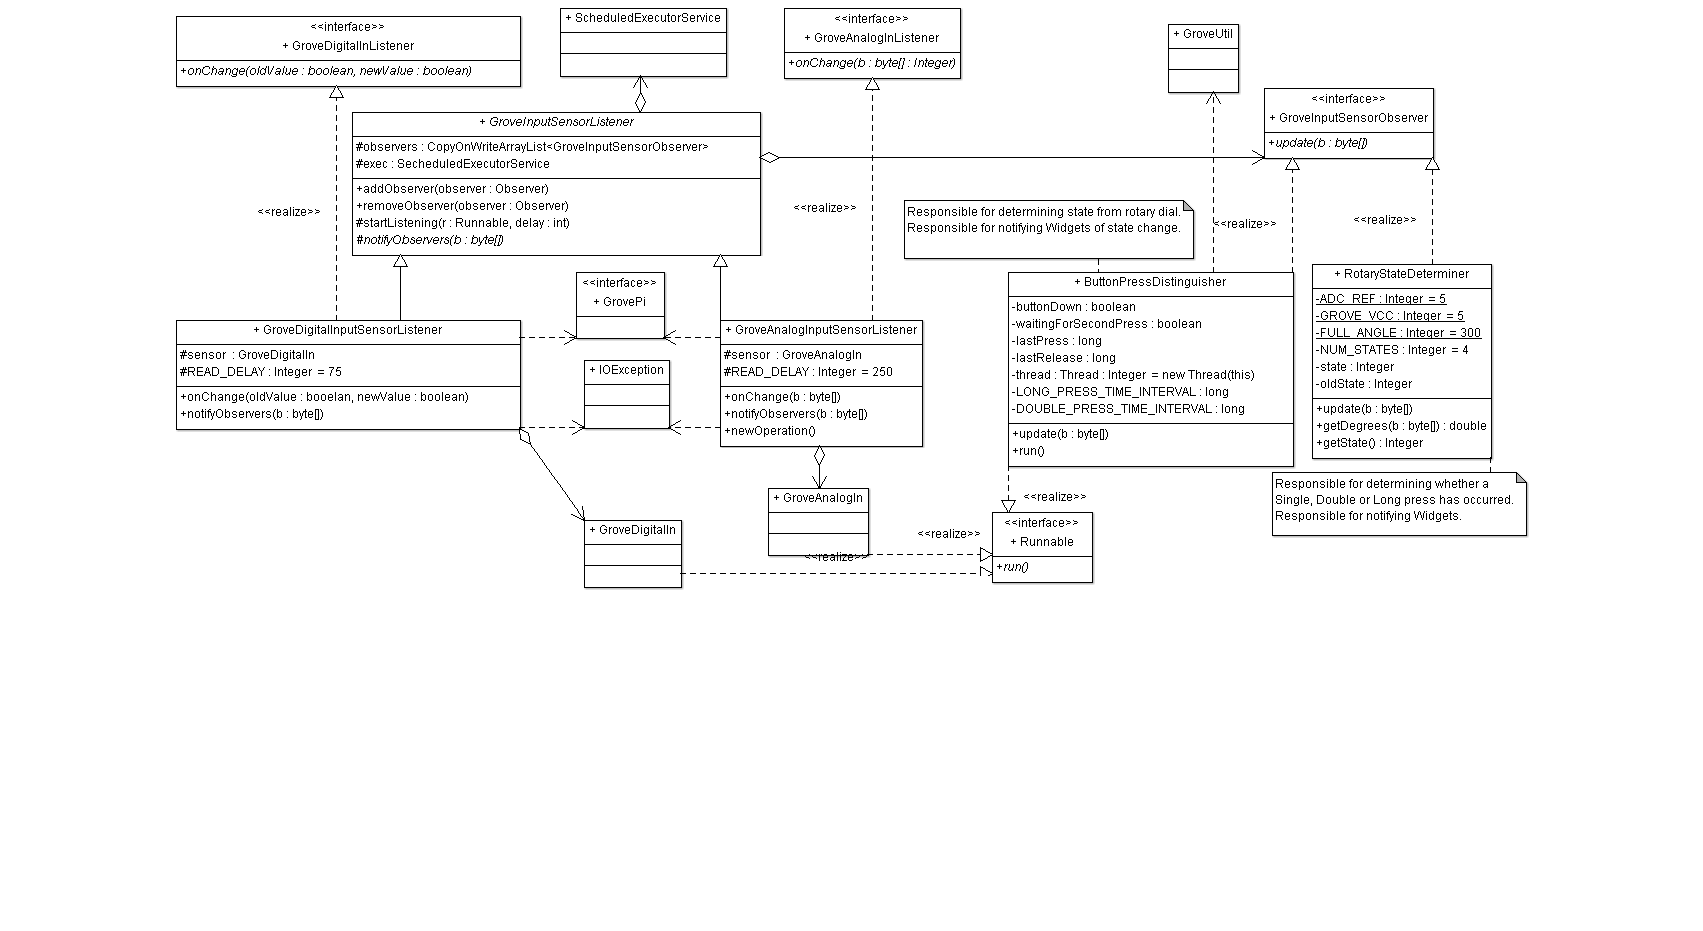
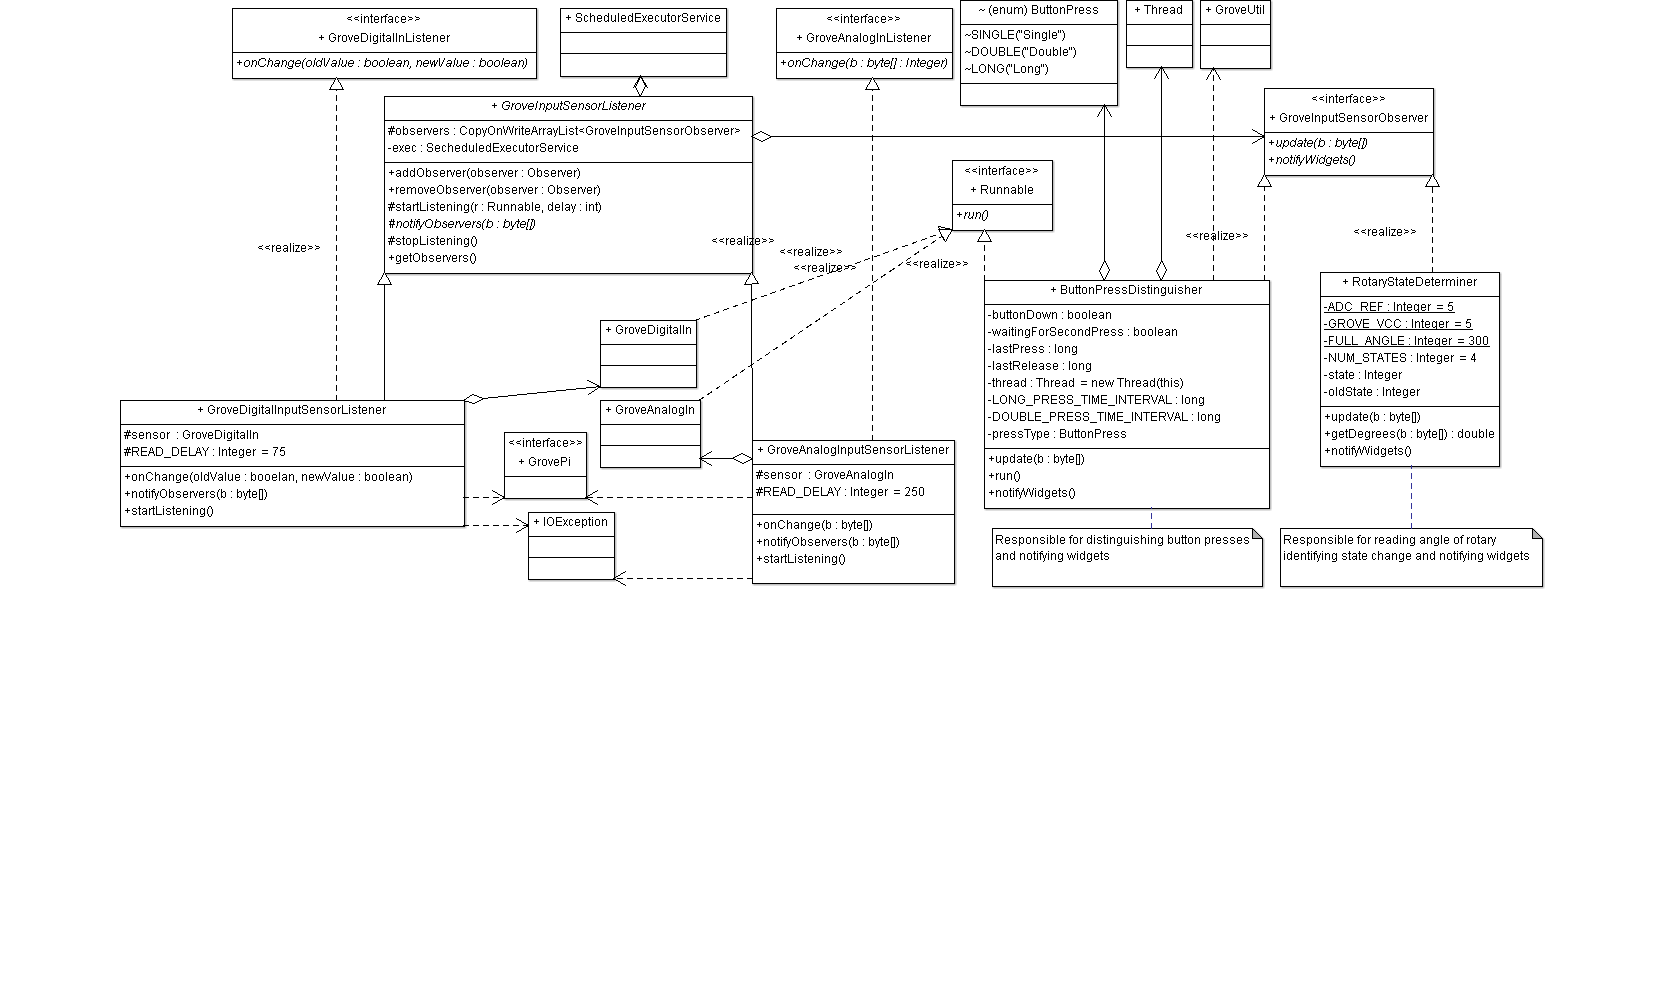
Merge from InputSensors Branch

diff --git a/MirrorMirrorOnTheWall/src/grovepisensors/ButtonPressDistinguisher.java b/MirrorMirrorOnTheWall/src/grovepisensors/ButtonPressDistinguisher.java
@@ -33,7 +33,7 @@ public class ButtonPressDistinguisher implements GroveInputSensorObserver, Runna
      */
     private Thread thread = new Thread(this);
     /**
-     * The number of milliseconds the button must be held down for a Long Press
+     * The number of milliseconds the button must be held down for a Long Press.
      */
     private final int LONG_PRESS_TIME_INTERVAL = 1000;
     /**
@@ -41,9 +41,9 @@ public class ButtonPressDistinguisher implements GroveInputSensorObserver, Runna
      */
     private final int DOUBLE_PRESS_TIME_INTERVAL = 1000;
     /**
-     * Holds String description of last press type. One of: 'SINGLE', 'DOUBLE', 'LONG'
+     * Holds what last type of press was.
      */
-    private String pressType;
+    private ButtonPress pressType;
     /**
      * Updates the recorded times of button presses and releases. If a Long Press or a Double Press
      * occurs, this method notifies the appropriate object.  If a Single Press is detected, this method
@@ -62,13 +62,13 @@ public class ButtonPressDistinguisher implements GroveInputSensorObserver, Runna
         } else{                             //button was just released
             lastRelease = timeOfAction;           
             if (lastRelease - lastPress > LONG_PRESS_TIME_INTERVAL){
-                pressType = "LONG";
-                System.out.println("Long Press");   //or call StateContext's LongPress()
+                pressType = ButtonPress.LONG;
+                notifyWidgets();
             }
             else{
                 if (thread.isAlive()){ //if thread still waiting, it's a double press        
-                    pressType = "DOUBLE";
-                    System.out.println("Double Press");
+                    pressType = ButtonPress.DOUBLE;
+                    notifyWidgets();
                     waitingForSecondPress = false;
                 }else{ //this press is not second press of a double press, must wait
                     waitingForSecondPress = true;
@@ -79,7 +79,7 @@ public class ButtonPressDistinguisher implements GroveInputSensorObserver, Runna
         }   
     }        
     /**
-     * Invoked by this instance's update method when it detects a Single Press.  If the Single Press is not followed by another within
+     * Invoked by update method of this class when it detects a Single Press.  If the Single Press is not followed by another within
      * the predetermined period of time.  The run method determines that a Single Press has occurred and notifies the appropriate objec
      * @Override run in interface Runnable
      */
@@ -87,19 +87,19 @@ public class ButtonPressDistinguisher implements GroveInputSensorObserver, Runna
         try{
             Thread.sleep(DOUBLE_PRESS_TIME_INTERVAL);  //after "enough" time has elapsed,
             if(waitingForSecondPress){              //and still waiting for second press, then it's a single press
-                pressType = "SINGLE";
-                System.out.println("Single Press");  //or call State Context's singlePress()
+                pressType = ButtonPress.SINGLE;
+                notifyWidgets();
                 waitingForSecondPress = false;
             }                
         }catch (InterruptedException e){
             e.printStackTrace();
         }
     }
+    
     /**
-     * Gets the String representation of the last press
-     * @return One of: 'SINGLE', 'DOUBLE', 'LONG'
+     * Responsible for notifying active widget of press type that has just occurred.
      */
-    public String getLastPressType(){
-        return pressType;
+    public void notifyWidgets(){
+        System.out.println(pressType + " press");
     }
 }

diff --git a/MirrorMirrorOnTheWall/src/grovepisensors/RotaryStateDeterminer.java b/MirrorMirrorOnTheWall/src/grovepisensors/RotaryStateDeterminer.java
@@ -27,19 +27,29 @@ public class RotaryStateDeterminer implements GroveInputSensorObserver
     /**
      * The number of different states 
      */
-    private int NUM_STATES = 4;
+    private final int NUM_STATES;
     /**
      * The range in degrees of an interval that is associated with a distinct state.
      */
-    private double DEGREE_RANGE = FULL_ANGLE / NUM_STATES;
+    private final double DEGREE_RANGE;
     /**
      * The current state.
      */
-    private int state;
+    private int currentState;
     /**
      * The previous state.
      */
     private int oldState;
+    
+    /**
+     * Instantiates a RotaryStateDeterminer with the provided number of states
+     * @param numberOfStates the number of different states to recognize and distinguish
+     */    
+    public RotaryStateDeterminer(int numberOfStates){
+        NUM_STATES = numberOfStates;
+        DEGREE_RANGE = FULL_ANGLE / NUM_STATES;
+    }
+    
     /**
      * Updates an instance of this class of the current angle of a Grove rotary sensor. If the state has changed,
      * notifies the appropriate object elsewhere.
@@ -50,26 +60,33 @@ public class RotaryStateDeterminer implements GroveInputSensorObserver
      * @See GroveAnalogInputSensorListener
      * @See GroveRotarySensor
      * @See GroveRotaryValue
-     */    
+     */        
     public void update(byte[] b){
         double degrees = getDegrees(b);
-        oldState = state;
+        oldState = currentState;
         for (int i = 0; i < NUM_STATES; i++)
             if (i * DEGREE_RANGE < degrees && degrees < (i+1) * DEGREE_RANGE)
-                 state = i+1;
-        if (oldState != state)
-            System.out.println("State: " + state);
+                 currentState = i+1;
+        if (oldState != currentState)
+            notifyWidgets();
     }
      /**
      * Computes the current angle in degrees of the Grove rotary sensor based on the byte array read from the sensor
      * @param b the byte[] read from the rotary sensor
      * @return the angle of the rotary sensor
      */
-    public double getDegrees(byte[] b){
+    private double getDegrees(byte[] b){
         int[] v = GroveUtil.unsign(b);
         double sensorValue = (v[1]*256) + v[2];
         double voltage = sensorValue * ADC_REF / 1023;
         double degrees = voltage * FULL_ANGLE / GROVE_VCC;
         return degrees;
+    }
+    
+    /**
+     * Responsible for notifying widgets of state change
+     */
+    public void notifyWidgets(){
+        System.out.println("State: " + currentState);
     }
 }

diff --git a/MirrorMirrorOnTheWall/src/grovepisensors/GrovePiSensors.java b/MirrorMirrorOnTheWall/src/grovepisensors/GrovePiSensors.java
@@ -3,34 +3,29 @@ package grovepisensors;
 import com.pi4j.io.i2c.I2CFactory;
 import org.iot.raspberry.grovepi.pi4j.GrovePi4J;
 import java.io.IOException;
+
 /**
- * Short program to show that the sensors are working properly.  Currently, I do not think that 
- * the sensors work properly when looking at both sensors at the same time.
- * If you want to use the button, set 'testingButton = true;' If you want to test the rotary,
- * set 'testingButton = false;'  Ensure that button is connected to port 6 on the GrovePi, and 
- * that the rotary is connected to port 2 on the GrovePi.
+ * Short program to show that the sensors are working properly.
  * @author James Luczynski
  */
 public class GrovePiSensors {
-    /**
-     * Decides which type of sensor will be used. If true, then button. If false, then rotary.
-     */
-    private static boolean testingButton = true;
 
     public static void main(String[] args) throws IOException, I2CFactory.UnsupportedBusNumberException {
         int buttonPin = 6;
         int rotaryPin = 2;
         int bufferLength = 4;
+        int nStates = 4; //number of states for the rotary to detect
         GrovePi4J gp = new GrovePi4J();
         
-        if (testingButton){
-            GroveDigitalInputSensorListener buttonListener = 
-                    new GroveDigitalInputSensorListener(gp, buttonPin);
-            buttonListener.addObserver(new ButtonPressDistinguisher());
-        }else{ //testing Rotary
-            GroveAnalogInputSensorListener rotaryListener = 
-                    new GroveAnalogInputSensorListener(gp, rotaryPin, bufferLength);
-            rotaryListener.addObserver(new RotaryStateDeterminer());    
-        }
+        GroveDigitalInputSensorListener buttonListener = 
+                new GroveDigitalInputSensorListener(gp, buttonPin);
+        GroveAnalogInputSensorListener rotaryListener = 
+                new GroveAnalogInputSensorListener(gp, rotaryPin, bufferLength);
+        
+        buttonListener.addObserver(new ButtonPressDistinguisher());
+        rotaryListener.addObserver(new RotaryStateDeterminer(nStates));   
+        
+        buttonListener.startListening();
+        rotaryListener.startListening();
     }    
 }

diff --git a/MirrorMirrorOnTheWall/src/grovepisensors/GroveInputSensorListener.java b/MirrorMirrorOnTheWall/src/grovepisensors/GroveInputSensorListener.java
@@ -15,11 +15,11 @@ public abstract class GroveInputSensorListener {
     /**
      * A list of all observers that this listener notifies.
      */ 
-    protected CopyOnWriteArrayList<GroveInputSensorObserver> observers = new CopyOnWriteArrayList<GroveInputSensorObserver>();
+    protected CopyOnWriteArrayList<GroveInputSensorObserver> observers = new CopyOnWriteArrayList<>();
     /**
      * Responsible for making the intermittent calls to read the input sensor
      */
-    protected final ScheduledExecutorService exec = Executors.newSingleThreadScheduledExecutor();
+    private ScheduledExecutorService exec; 
     /**
      * Adds the observer to the list of observers.
      * @param observer the observer to be added
@@ -41,12 +41,28 @@ public abstract class GroveInputSensorListener {
      * @param delay the number of milliseconds between consecutive reads or calls of r's run() method
      */
     protected void startListening(Runnable r, int delay){
+        exec = Executors.newSingleThreadScheduledExecutor();
         exec.scheduleAtFixedRate(r, 0, delay, TimeUnit.MILLISECONDS);
     }
     
+    /**
+     * Stops the readings of the input sensor's values
+     */
+    protected void stopListening(){
+        if (!exec.isShutdown())
+            exec.shutdown();
+    }
     /**
      * Implementation to be provided by subclasses. Notifies all observers of the values recently read from the input sensor.
      * @param b the byte array that was read from the sensor.
      */
     protected abstract void notifyObservers(byte[] b);
+    
+    /**
+     * Gets the list of Observers that this Listener is responsible for notifying
+     * @return the list of observers
+     */
+    public CopyOnWriteArrayList<GroveInputSensorObserver> getObservers(){
+        return observers;
+    }
 }

diff --git a/MirrorMirrorOnTheWall/src/grovepisensors/GroveAnalogInputSensorListener.java b/MirrorMirrorOnTheWall/src/grovepisensors/GroveAnalogInputSensorListener.java
@@ -31,12 +31,19 @@ public class GroveAnalogInputSensorListener extends GroveInputSensorListener imp
     public GroveAnalogInputSensorListener(GrovePi grovePi, int pin, int bufferSize) throws IOException{
         sensor = new GroveAnalogIn(grovePi, pin, bufferSize);
         sensor.setListener(this);
-        startListening(sensor, READ_DELAY);
+    }
+    
+    /**
+     * Initiates the readings of the input sensor's values
+     */
+    public void startListening(){
+        this.startListening(sensor, READ_DELAY);
     }
     
     /**
      * Notifies all observers of the new values read from the input sensor
      * @param b the byte array read from the sensor.
+     * @Override notifyObservers in GroveInputSensorListener
      */
     protected void notifyObservers(byte[] b){
         for (GroveInputSensorObserver o : observers){
@@ -47,6 +54,7 @@ public class GroveAnalogInputSensorListener extends GroveInputSensorListener imp
     /**
      * Tells an instance of this class to notify its observers of the new values read from the input sensor.
      * @param newValue The byte array read from the input sensor.
+     * @Override onChange in GroveAnalogInListener
      */
     public void onChange(byte[] newValue){
         notifyObservers(newValue);

diff --git a/MirrorMirrorOnTheWall/src/grovepisensors/GroveDigitalInputSensorListener.java b/MirrorMirrorOnTheWall/src/grovepisensors/GroveDigitalInputSensorListener.java
@@ -30,7 +30,13 @@ public class GroveDigitalInputSensorListener extends GroveInputSensorListener im
     public GroveDigitalInputSensorListener(GrovePi grovePi, int pin) throws IOException{
         sensor = new GroveDigitalIn(grovePi, pin);
         sensor.setListener(this);
-        startListening(sensor, READ_DELAY);
+    }
+    
+    /**
+     * Initiates the readings of the input sensor's values
+     */
+    public void startListening(){
+        this.startListening(sensor, READ_DELAY);
     }
     
      /**
@@ -48,6 +54,7 @@ public class GroveDigitalInputSensorListener extends GroveInputSensorListener im
      * Tells an instance of this class to notify its observers of the new values read from the input sensor.
      * @param newValue The new state of the digital sensor.
      * @param oldValue The old state of the digital sensor.
+     * @Override onChange in GroveDigitalInListener
      */
     public void onChange(boolean oldValue, boolean newValue){
         notifyObservers(null);

diff --git a/MirrorMirrorOnTheWall/src/grovepisensors/ButtonPress.java b/MirrorMirrorOnTheWall/src/grovepisensors/ButtonPress.java
@@ -1,0 +1,25 @@
+package grovepisensors;
+
+/**
+ * Enumeration for the different types of button presses
+ * @author James Luczynski
+ */
+enum ButtonPress {
+    SINGLE("Single"), 
+    DOUBLE("Double"), 
+    LONG("Long");
+    
+    private final String pressType;
+    
+    private ButtonPress(String pressType){
+        this.pressType = pressType;
+    }
+    
+    /**
+     * @Override in class Enum
+     * @return String description of the button press type
+     */
+    public String toString(){
+        return pressType;
+    }
+}

diff --git a/MirrorMirrorOnTheWall/src/grovepisensors/GroveInputSensorObserver.java b/MirrorMirrorOnTheWall/src/grovepisensors/GroveInputSensorObserver.java
@@ -14,4 +14,9 @@ public interface GroveInputSensorObserver{
      * @param b The data read from the Grove input sensor and passed from a subclass of GroveInputSensorListener
      */
     public void update(byte[] b);
+    
+    /**
+     * Responsible for notifying widgets of whatever event subclasses have detected.
+     */
+    public void notifyWidgets();
 }
